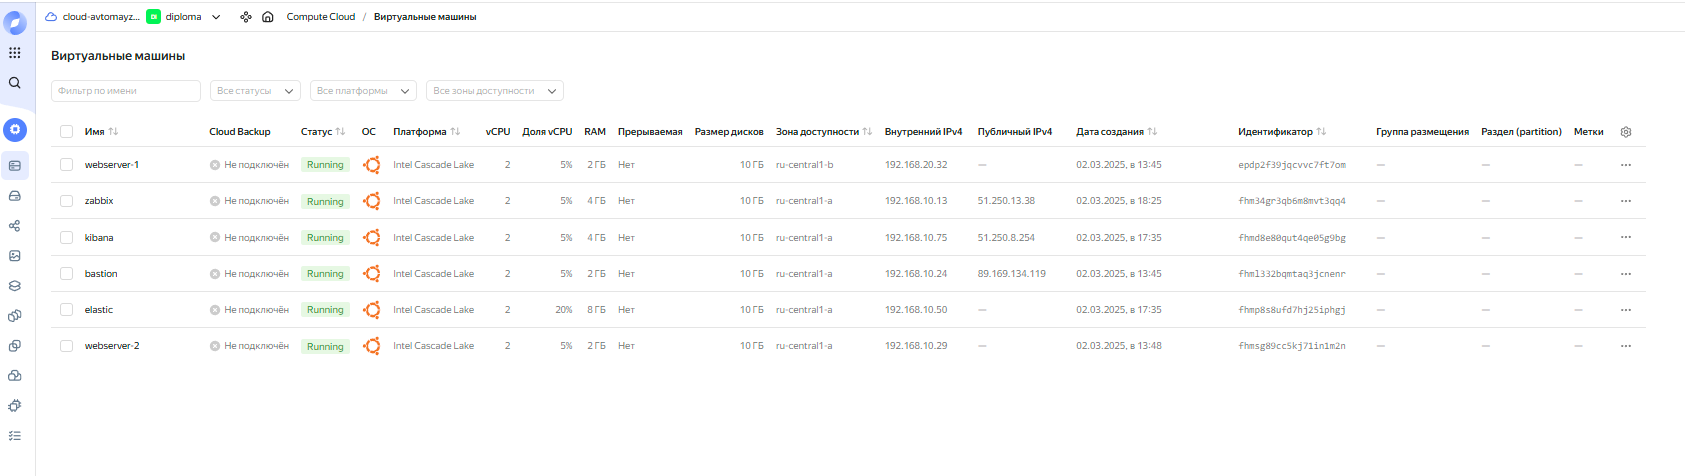
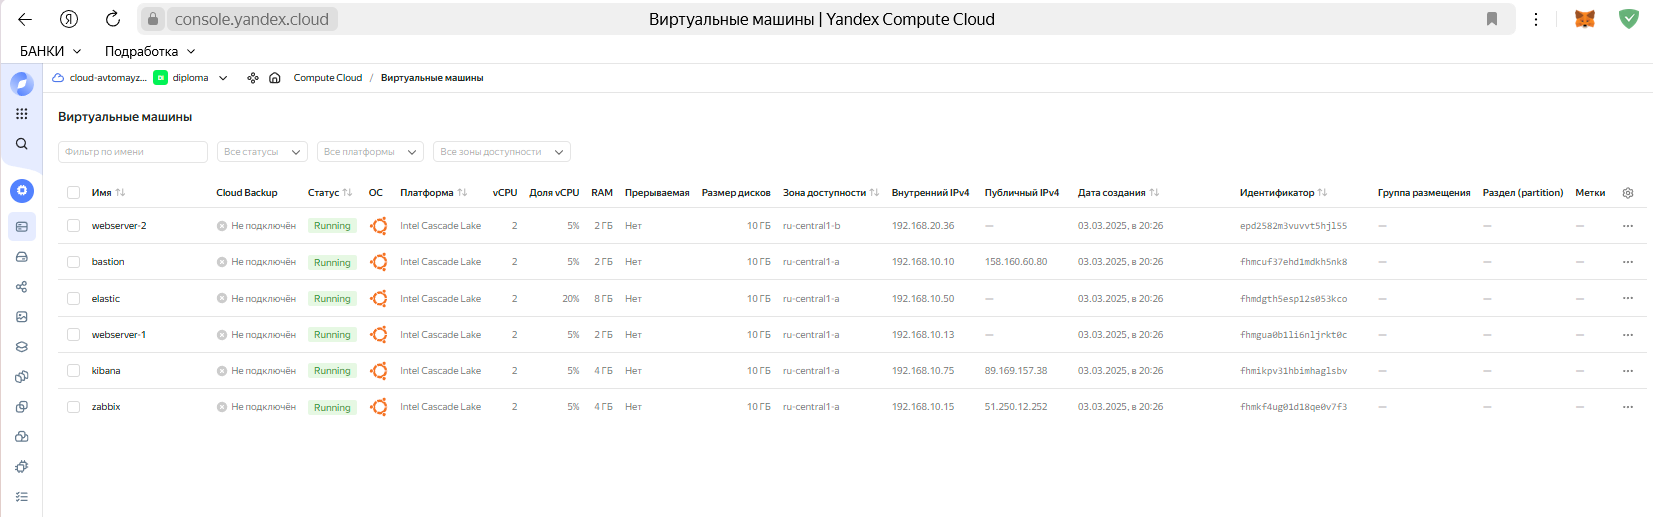
Added information about Project Diploma. Added images.

diff --git a/README.md b/README.md
@@ -1,2 +1,186 @@
-# diplova
-Diploma work
+
+#  Курсовая работа по профессии «Системный админитсратор»
+
+Содержание
+==========
+* [Задача](#Задача)
+* [Инфраструктура](#Инфраструктура)
+    * [Сайт](#Сайт)
+    * [Мониторинг](#Мониторинг)
+    * [Логи](#Логи)
+    * [Сеть](#Сеть)
+    * [Резервное копирование](#Резервное-копирование)
+    * [Дополнительно](#Дополнительно)
+* [Выполнение работы](#Выполнение-работы)
+* [Критерии сдачи](#Критерии-сдачи)
+* [Как правильно задавать вопросы дипломному руководителю](#Как-правильно-задавать-вопросы-дипломному-руководителю) 
+
+---------
+
+## Задача
+Ключевая задача — разработать отказоустойчивую инфраструктуру для сайта, включающую мониторинг, сбор логов и резервное копирование основных данных. Инфраструктура должна размещаться в [Yandex Cloud](https://cloud.yandex.com/) и отвечать минимальным стандартам безопасности: запрещается выкладывать токен от облака в git. Используйте [инструкцию](https://cloud.yandex.ru/docs/tutorials/infrastructure-management/terraform-quickstart#get-credentials).
+
+**Перед началом работы над дипломным заданием изучите [Инструкция по экономии облачных ресурсов](https://github.com/netology-code/devops-materials/blob/master/cloudwork.MD).**
+
+## Инфраструктура
+Для развёртки инфраструктуры используйте Terraform и Ansible.  
+
+Не используйте для ansible inventory ip-адреса! Вместо этого используйте fqdn имена виртуальных машин в зоне ".ru-central1.internal". Пример: example.ru-central1.internal  
+
+Важно: используйте по-возможности **минимальные конфигурации ВМ**:2 ядра 20% Intel ice lake, 2-4Гб памяти, 10hdd, прерываемая. 
+
+**Так как прерываемая ВМ проработает не больше 24ч, перед сдачей работы на проверку дипломному руководителю сделайте ваши ВМ постоянно работающими.**
+
+Ознакомьтесь со всеми пунктами из этой секции, не беритесь сразу выполнять задание, не дочитав до конца. Пункты взаимосвязаны и могут влиять друг на друга.
+
+### Решение:
+
+Виртуальные сервера развернуты в облаке Yandex c помошью Terraform. В ansible inventory IP аддреса не используются.
+Данные сервера имеют минимальную конфигруацию.
+
+![img](https://github.com/Roman2024-crypto/diploma/blob/Production/images/terraform.png)
+
+![img](https://github.com/Roman2024-crypto/diploma/blob/Production/images/servers.png)
+
+
+### Сайт
+Создайте две ВМ в разных зонах, установите на них сервер nginx, если его там нет. ОС и содержимое ВМ должно быть идентичным, это будут наши веб-сервера.
+
+Используйте набор статичных файлов для сайта. Можно переиспользовать сайт из домашнего задания.
+
+Виртуальные машины не должны обладать внешним Ip-адресом, те находится во внутренней сети. Доступ к ВМ по ssh через бастион-сервер. Доступ к web-порту ВМ через балансировщик yandex cloud.
+
+Настройка балансировщика:
+
+1. Создайте [Target Group](https://cloud.yandex.com/docs/application-load-balancer/concepts/target-group), включите в неё две созданных ВМ.
+
+2. Создайте [Backend Group](https://cloud.yandex.com/docs/application-load-balancer/concepts/backend-group), настройте backends на target group, ранее созданную. Настройте healthcheck на корень (/) и порт 80, протокол HTTP.
+
+3. Создайте [HTTP router](https://cloud.yandex.com/docs/application-load-balancer/concepts/http-router). Путь укажите — /, backend group — созданную ранее.
+
+4. Создайте [Application load balancer](https://cloud.yandex.com/en/docs/application-load-balancer/) для распределения трафика на веб-сервера, созданные ранее. Укажите HTTP router, созданный ранее, задайте listener тип auto, порт 80.
+
+Протестируйте сайт
+`curl -v <публичный IP балансера>:80` 
+
+### Решение:
+
+Группа web серверов находятся в Instance-Group.
+
+![img](https://github.com/Roman2024-crypto/diploma/blob/Production/images/WebServersGroup.png)
+
+Доступ к ВМ по ssh через бастион-сервер
+
+![img](https://github.com/Roman2024-crypto/diploma/blob/Production/images/SSH-to-web1.png)
+
+![img](https://github.com/Roman2024-crypto/diploma/blob/Production/images/SSH-to-web2.png)
+
+Веб сервера Nginx доступны через балансировщика по адрессу - http://158.160.147.226/
+
+![img](https://github.com/Roman2024-crypto/diploma/blob/Production/images/webserver-balans1.png)
+
+![img](https://github.com/Roman2024-crypto/diploma/blob/Production/images/webserver-balans2.png)
+
+Балансировщик
+
+Создана Target Group
+
+![img](https://github.com/Roman2024-crypto/diploma/blob/Production/images/target-group.png)
+
+Создана Backend Group
+
+![img](https://github.com/Roman2024-crypto/diploma/blob/Production/images/back-group.png)
+
+Создан HTTP router
+
+![img](https://github.com/Roman2024-crypto/diploma/blob/Production/images/http-router.png)
+
+Создан Application load balancer
+
+![img](https://github.com/Roman2024-crypto/diploma/blob/Production/images/alb.png)
+
+### Мониторинг
+Создайте ВМ, разверните на ней Zabbix. На каждый webserverустановите Zabbix Agent, настройте агенты на отправление метрик в Zabbix. 
+
+Настройте дешборды с отображением метрик, минимальный набор — по принципу USE (Utilization, Saturation, Errors) для CPU, RAM, диски, сеть, http запросов к веб-серверам. Добавьте необходимые tresholds на соответствующие графики.
+
+### Решение
+
+Zabbix доступен по ссылке: http://51.250.12.252:8080/
+
+![img](https://github.com/Roman2024-crypto/diploma/blob/Production/images/zabbix.png)
+
+Дашборды:
+
+![img](https://github.com/Roman2024-crypto/diploma/blob/Production/images/zabbix-dashbords.png)
+
+### Логи
+Cоздайте ВМ, разверните на ней Elasticsearch. Установите filebeat в ВМ к веб-серверам, настройте на отправку access.log, error.log nginx в Elasticsearch.
+Создайте ВМ, разверните на ней Kibana, сконфигурируйте соединение с Elasticsearch.
+
+### Решение
+
+Kibana с подлюченным Elasticsearch доступна по ссылке - http://89.169.157.38:5601/app/discover#/?_g=(filters:!(),refreshInterval:(pause:!t,value:0),time:(from:now-15m,to:now))&_a=(columns:!(),filters:!(),index:a5761760-f904-11ef-9d5a-611ca6046251,interval:auto,query:(language:kuery,query:''),sort:!(!('@timestamp',desc)))
+
+![img](https://github.com/Roman2024-crypto/diploma/blob/Production/images/elastic.png)
+
+### Сеть
+Разверните один VPC. Сервера web, Elasticsearch поместите в приватные подсети. Сервера Zabbix, Kibana, application load balancer определите в публичную подсеть.
+
+Настройте [Security Groups](https://cloud.yandex.com/docs/vpc/concepts/security-groups) соответствующих сервисов на входящий трафик только к нужным портам.
+
+Настройте ВМ с публичным адресом, в которой будет открыт только один порт — ssh.  Эта вм будет реализовывать концепцию  [bastion host]( https://cloud.yandex.ru/docs/tutorials/routing/bastion) . Синоним "bastion host" - "Jump host". Подключение  ansible к серверам web и Elasticsearch через данный bastion host можно сделать с помощью  [ProxyCommand](https://docs.ansible.com/ansible/latest/network/user_guide/network_debug_troubleshooting.html#network-delegate-to-vs-proxycommand) . Допускается установка и запуск ansible непосредственно на bastion host.(Этот вариант легче в настройке)
+
+### Решение
+
+Развернута одна VPC. Cервера web, Elasticsearch помещены в приватные сети.
+Сервера Zabbix, Kibana, application load balancer определены в публичные подсеть.
+
+![img](https://github.com/Roman2024-crypto/diploma/blob/Production/images/vpc.png)
+![img](https://github.com/Roman2024-crypto/diploma/blob/Production/images/servers.png)
+
+Bastion сервер настроен в качестве Jump host. Настроена [ProxyCommand].
+Конфигуррация групп  доступа доступна тут - https://github.com/Roman2024-crypto/diploma/blob/Production/Terraform/security_group.tf (Ветка Production).
+
+### Резервное копирование
+Cоздайте snapshot дисков всех ВМ. Ограничьте время жизни snaphot в неделю. Сами snaphot настройте на ежедневное копирование.
+
+### Решение
+Снапшоты управляются политикой Terraform - https://github.com/Roman2024-crypto/diploma/blob/Production/Terraform/snapshot.tf (Ветка Production).
+
+![img](https://github.com/Roman2024-crypto/diploma/blob/Production/images/snapshots.png)
+
+### Дополнительно
+Не входит в минимальные требования. 
+
+1. Для Zabbix можно реализовать разделение компонент - frontend, server, database. Frontend отдельной ВМ поместите в публичную подсеть, назначте публичный IP. Server поместите в приватную подсеть, настройте security group на разрешение трафика между frontend и server. Для Database используйте [Yandex Managed Service for PostgreSQL](https://cloud.yandex.com/en-ru/services/managed-postgresql). Разверните кластер из двух нод с автоматическим failover.
+2. Вместо конкретных ВМ, которые входят в target group, можно создать [Instance Group](https://cloud.yandex.com/en/docs/compute/concepts/instance-groups/), для которой настройте следующие правила автоматического горизонтального масштабирования: минимальное количество ВМ на зону — 1, максимальный размер группы — 3.
+3. В Elasticsearch добавьте мониторинг логов самого себя, Kibana, Zabbix, через filebeat. Можно использовать logstash тоже.
+4. Воспользуйтесь Yandex Certificate Manager, выпустите сертификат для сайта, если есть доменное имя. Перенастройте работу балансера на HTTPS, при этом нацелен он будет на HTTP веб-серверов.
+
+## Выполнение работы
+На этом этапе вы непосредственно выполняете работу. При этом вы можете консультироваться с руководителем по поводу вопросов, требующих уточнения.
+
+⚠ В случае недоступности ресурсов Elastic для скачивания рекомендуется разворачивать сервисы с помощью docker контейнеров, основанных на официальных образах.
+
+**Важно**: Ещё можно задавать вопросы по поводу того, как реализовать ту или иную функциональность. И руководитель определяет, правильно вы её реализовали или нет. Любые вопросы, которые не освещены в этом документе, стоит уточнять у руководителя. Если его требования и указания расходятся с указанными в этом документе, то приоритетны требования и указания руководителя.
+
+## Критерии сдачи
+1. Инфраструктура отвечает минимальным требованиям, описанным в [Задаче](#Задача).
+2. Предоставлен доступ ко всем ресурсам, у которых предполагается веб-страница (сайт, Kibana, Zabbix).
+3. Для ресурсов, к которым предоставить доступ проблематично, предоставлены скриншоты, команды, stdout, stderr, подтверждающие работу ресурса.
+4. Работа оформлена в отдельном репозитории в GitHub или в [Google Docs](https://docs.google.com/), разрешён доступ по ссылке. 
+5. Код размещён в репозитории в GitHub.
+6. Работа оформлена так, чтобы были понятны ваши решения и компромиссы. 
+7. Если использованы дополнительные репозитории, доступ к ним открыт. 
+
+## Как правильно задавать вопросы дипломному руководителю
+Что поможет решить большинство частых проблем:
+1. Попробовать найти ответ сначала самостоятельно в интернете или в материалах курса и только после этого спрашивать у дипломного руководителя. Навык поиска ответов пригодится вам в профессиональной деятельности.
+2. Если вопросов больше одного, присылайте их в виде нумерованного списка. Так дипломному руководителю будет проще отвечать на каждый из них.
+3. При необходимости прикрепите к вопросу скриншоты и стрелочкой покажите, где не получается. Программу для этого можно скачать [здесь](https://app.prntscr.com/ru/).
+
+Что может стать источником проблем:
+1. Вопросы вида «Ничего не работает. Не запускается. Всё сломалось». Дипломный руководитель не сможет ответить на такой вопрос без дополнительных уточнений. Цените своё время и время других.
+2. Откладывание выполнения дипломной работы на последний момент.
+3. Ожидание моментального ответа на свой вопрос. Дипломные руководители — работающие инженеры, которые занимаются, кроме преподавания, своими проектами. Их время ограничено, поэтому постарайтесь задавать правильные вопросы, чтобы получать быстрые ответы :)
